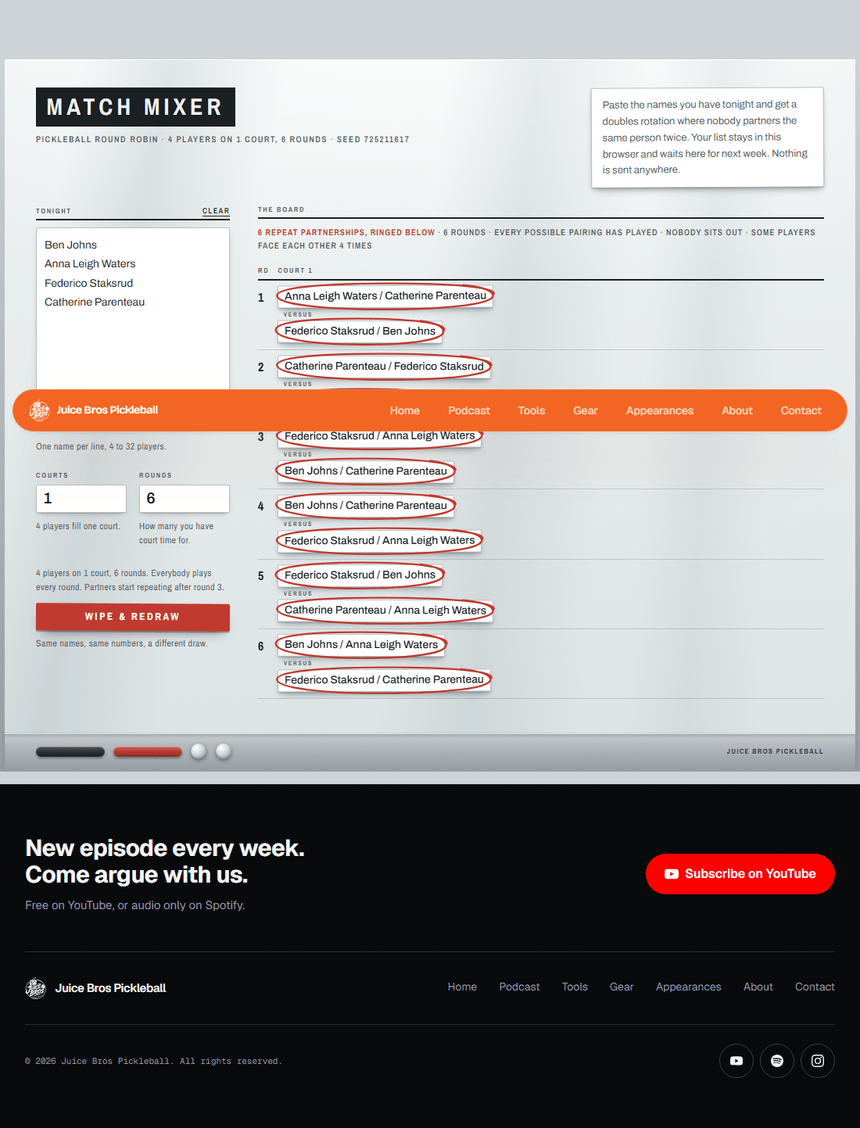
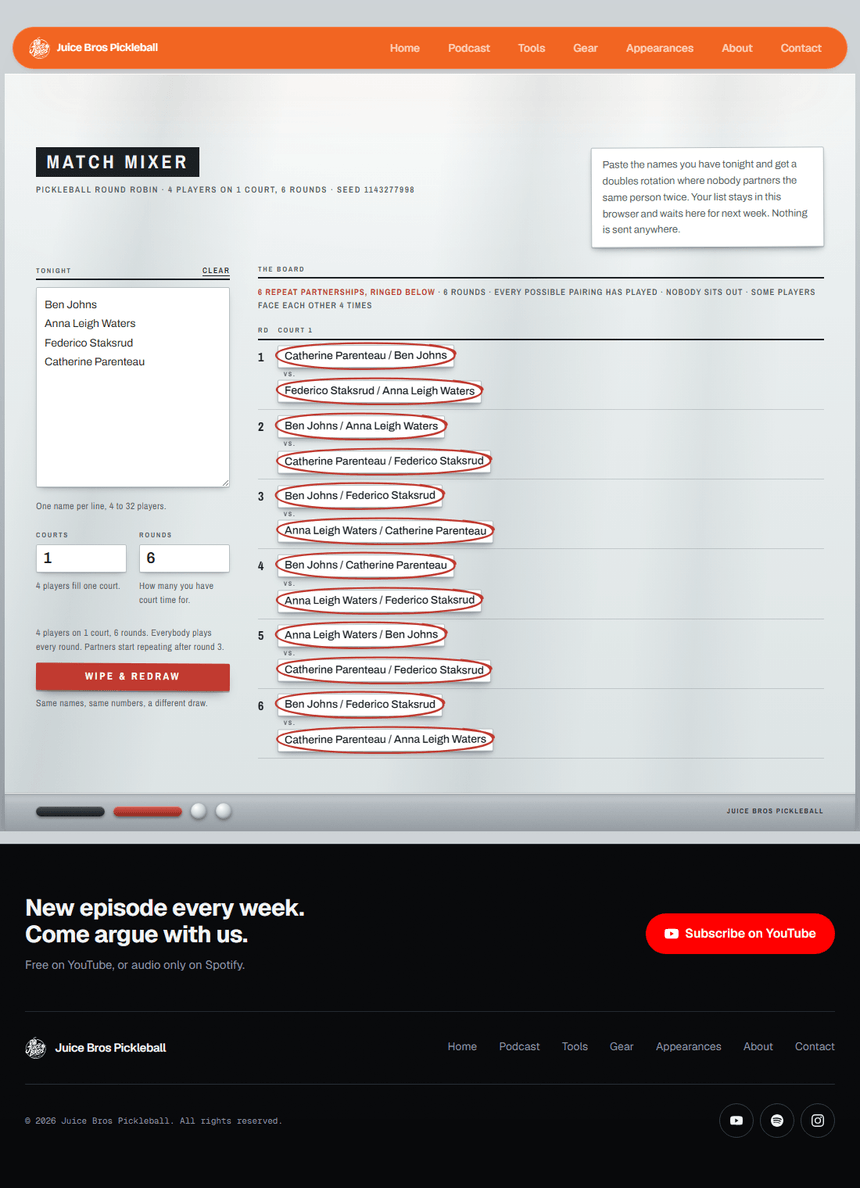
Match Mixer: the nav floats on the board, and vs. is short (#482)
Two notes from Adrian.

**The bar was sitting on a grey strip.** `.mm-sheet` began below the row the
desktop pill nav reserved for itself, so the object started 70px down the
page and the bar floated on bare page ground above it. Match Mixer joins
Home, On Deck and Booking Buddy in `hasOverlayHero`, which makes the bar
`fixed` and reserves nothing: the aluminium surround now runs to the very
top and the nav floats on the board itself, which is the rule every other
hero route on this site already follows.

The measurements move with it. `min-height` loses the 70px subtraction and
takes 3.5rem off instead — the mobile identity strip, which is a plain
in-flow bar and is the only chrome still reserving a row. From 40rem up the
board is a full `100svh` and the enamel gets 70px plus the band's own air at
the top, so the club plate starts below where the floating pill lands rather
than under it.

**"versus" is now "vs."** — set in the vinyl register like every other
applied label, so it reads as tracked caps.

Claude-Session: https://claude.ai/code/session_01QeaTRBXvtfwRgSv4zUSdZv

diff --git a/src/app/globals.css b/src/app/globals.css
@@ -3197,14 +3197,15 @@ html:has(.bb-app-chrome) {
        `100svh` rather than `vh` so a phone's collapsing browser chrome does
        not leave a strip of metal under the tray.
 
-       Less the strip the floating pill nav sits in: at a full viewport the
-       object's bottom edge — the tray, which is the thing that tells you which
-       way up this is — lands exactly that far below the fold, which is the one
-       place it cannot be. Measured, not guessed: the shell puts `.mm-sheet` at
-       70px. */
+       The desktop pill nav is `fixed` on this route (`hasOverlayHero` in
+       SiteHeader), so it reserves no row and the surround runs to the very top
+       of the page and behind it — the object begins where the page does. What
+       is subtracted here is the mobile identity strip, which is a plain in-flow
+       bar; without that the tray lands exactly its height below the fold, which
+       is the one place the object's bottom edge cannot be. */
     display: flex;
     flex-direction: column;
-    min-height: calc(100svh - 70px);
+    min-height: calc(100svh - 3.5rem);
     color-scheme: light;
     font-family: var(--font-mm-plate), "Archivo", system-ui, sans-serif;
   }
@@ -3236,6 +3237,19 @@ html:has(.bb-app-chrome) {
       inset 0 -1px 0 rgb(0 0 0 / 0.07);
     padding: clamp(1.1rem, 3.5vw, 2.25rem) clamp(1rem, 4vw, 2.5rem)
       clamp(1.5rem, 4vw, 2.75rem);
+  }
+  /* Once the floating bar appears it is over the enamel rather than above it,
+     so the club plate has to start below where it lands: 70px to clear the
+     pill (measured off the shell, not guessed), then the band's own air. Below
+     this width the bar is the in-flow identity strip instead, which reserves
+     its own row and needs nothing here. */
+  @media (min-width: 40rem) {
+    .mm-sheet {
+      min-height: 100svh;
+    }
+    .mm-face {
+      padding-top: calc(70px + 1.5rem);
+    }
   }
 
   /* ---- Applied furniture ------------------------------------------------- */

diff --git a/src/components/layout/site-header.tsx b/src/components/layout/site-header.tsx
@@ -41,8 +41,16 @@ export function SiteHeader() {
   // mobile the hero is a short banner rather than a full-viewport background,
   // so overlapping it hides content - mobile gets a plain in-flow identity
   // strip instead, plus a corner FAB for the menu.
+  // Match Mixer joins them for the same reason in a different material: the
+  // board is a manufactured object that fills the frame, so its aluminium
+  // surround has to run to the very top of the page. Reserving a row for the
+  // bar left the object sitting under a bare strip of page ground, which read
+  // as the nav floating on a grey bar rather than on the board.
   const hasOverlayHero =
-    pathname === "/" || pathname === "/on-deck" || pathname === "/booking-buddy";
+    pathname === "/" ||
+    pathname === "/on-deck" ||
+    pathname === "/booking-buddy" ||
+    pathname === "/tools/match-mixer";
 
   return (
     <>

diff --git a/src/components/apps/match-mixer/schedule-grid.tsx b/src/components/apps/match-mixer/schedule-grid.tsx
@@ -208,7 +208,7 @@ export function ScheduleGrid({
                 {round.games.map((game) => (
                   <td key={game.court} data-court={`Court ${game.court + 1}`}>
                     <Side roster={roster} score={score} team={game.teams[0]} />
-                    <span className="mm-versus">versus</span>
+                    <span className="mm-versus">vs.</span>
                     <Side roster={roster} score={score} team={game.teams[1]} />
                   </td>
                 ))}
